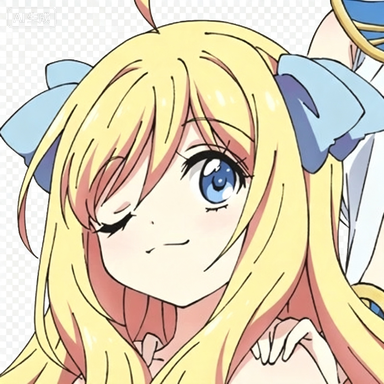
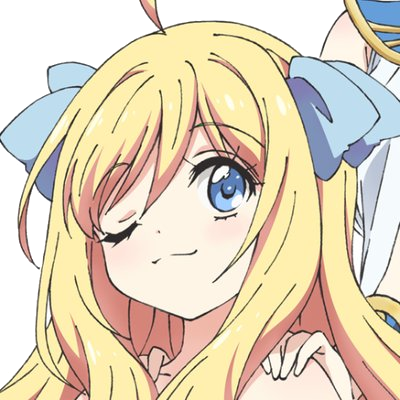
chore: remove unused ASCII conversion utility and AsciiAvatar component

diff --git a/src/commands/builtins/whoami.ts b/src/commands/builtins/whoami.ts
@@ -1,6 +1,5 @@
 import React from 'react';
 import type { CommandHandler } from '../../types';
-import AsciiAvatar from '../../output/AsciiAvatar';
 
 const WhoamiPanel = () => {
   const info: [string, string][] = [
@@ -14,9 +13,10 @@ const WhoamiPanel = () => {
 
   return React.createElement('div', { className: 'whoami-panel' },
     React.createElement('div', { className: 'whoami-avatar-wrap' },
-      React.createElement(AsciiAvatar, {
-        url: '/avatar.png',
-        maxWidth: 300,
+      React.createElement('img', {
+        src: '/avatar.png',
+        className: 'whoami-img',
+        alt: 'avatar',
       })
     ),
     React.createElement('div', { className: 'whoami-info' },

diff --git a/src/terminal/Terminal.css b/src/terminal/Terminal.css
@@ -62,17 +62,17 @@ html, body, #root {
   justify-content: center;
 }
 
-.whoami-avatar-wrap .ascii-canvas {
-  width: 50% !important;
-  max-width: 50% !important;
-  height: auto !important;
+.whoami-img {
+  display: block;
+  width: 120%;
+  max-width: 120%;
+  height: auto;
   margin: 0 auto;
-  display: block !important;
 }
 
 .whoami-info {
   font-family: 'JetBrains Mono', 'Fira Code', monospace;
-  font-size: 14px;
+  font-size: 16px;
   line-height: 1.8;
   flex: 1;
   display: flex;
@@ -83,7 +83,7 @@ html, body, #root {
 
 .whoami-info {
   font-family: 'JetBrains Mono', 'Fira Code', monospace;
-  font-size: 14px;
+  font-size: 16px;
   line-height: 1.8;
 }
 

diff --git a/src/terminal/useTerminal.ts b/src/terminal/useTerminal.ts
@@ -260,7 +260,7 @@ export function useTerminal() {
 
     const term = new Terminal({
       fontFamily: "'JetBrains Mono', 'Fira Code', 'Cascadia Code', monospace",
-      fontSize: 15,
+      fontSize: 16,
       lineHeight: 1.5,
       theme: {
         background: '#0a0a0a',
